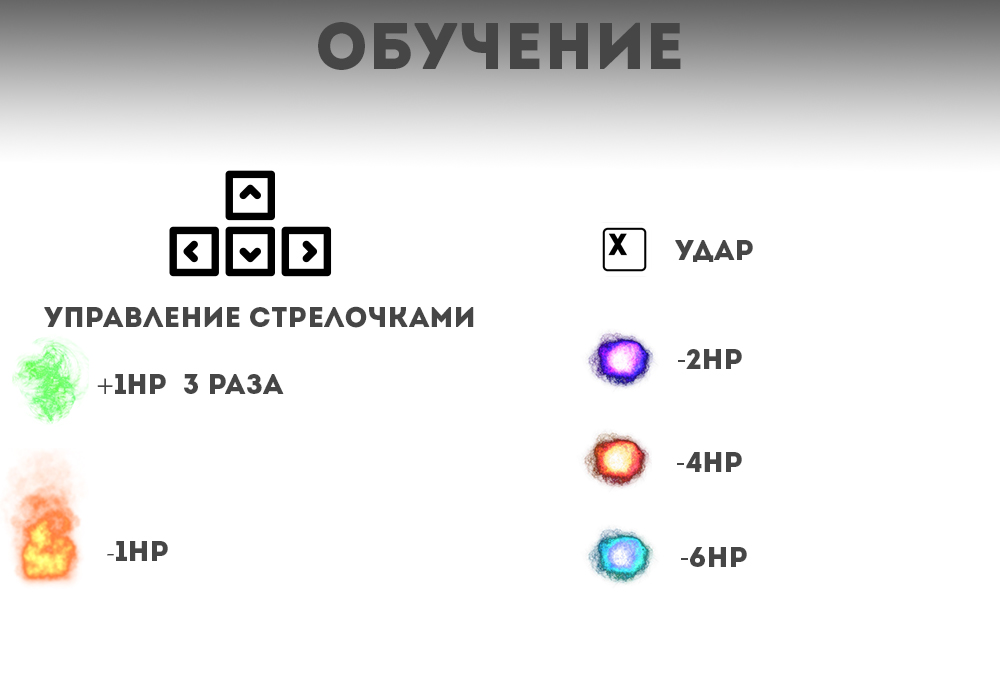
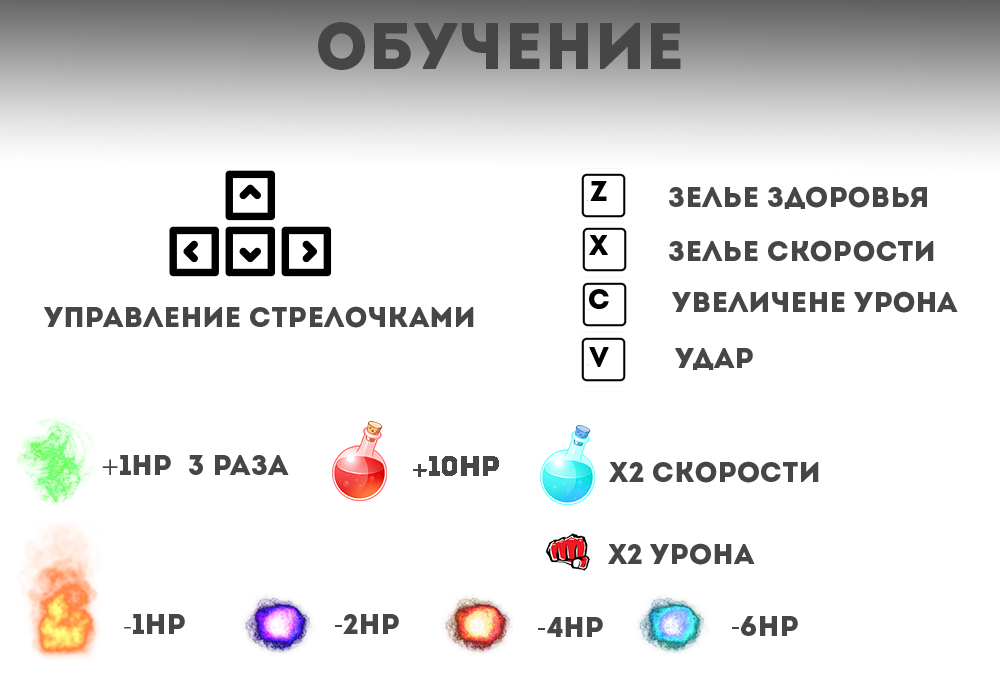
prerealise

diff --git a/game.py b/game.py
@@ -30,6 +30,7 @@ player_group = pygame.sprite.Group()
 particles = pygame.sprite.Group()
 buttons = pygame.sprite.Group()
 speed_up = []
+damage_up = []
 
 
 def load_image(name, color_key=None):
@@ -151,7 +152,12 @@ def game_screen(mode):
         f.seek(0)
         f = list(map(lambda x: x.strip(), f.readlines()))
         start_settings['level'] = f[0]
-        start_settings['player_stats'] = [int(f[1]), int(f[2]), int(f[3])]
+        start_settings['player_stats'] = [int(f[1]),
+                                          int(f[2]),
+                                          int(f[3]),
+                                          int(f[4]),
+                                          int(f[5]),
+                                          int(f[6])]
         player, level_x, level_y = generate_level(load_level(start_settings['level']))
         camera = Camera((level_x, level_y))
         save.close()
@@ -159,7 +165,12 @@ def game_screen(mode):
         f = open('data/save_load.txt')
         f = list(map(lambda x: x.strip(), f.readlines()))
         start_settings['level'] = f[0]
-        start_settings['player_stats'] = [int(f[1]), int(f[2]), int(f[3])]
+        start_settings['player_stats'] = [int(f[1]),
+                                          int(f[2]),
+                                          int(f[3]),
+                                          int(f[4]),
+                                          int(f[5]),
+                                          int(f[6])]
         player, level_x, level_y = generate_level(load_level(start_settings['level']))
         camera = Camera((level_x, level_y))
 
@@ -181,7 +192,7 @@ def game_screen(mode):
                                                       enemy_group):
                         enemy = pygame.sprite.spritecollideany(player,
                                                                enemy_group)
-                        enemy.hp -= 4
+                        enemy.hp -= player.damage
                         for _ in range(3):
                             Particle((enemy.rect[0] + 50,
                                       enemy.rect[1] + 50),
@@ -198,7 +209,7 @@ def game_screen(mode):
                 elif event.key == 99:
                     if player.damage_increasing:
                         player.damage_increasing -= 1
-                        speed_up.append(DoubleSpeed())
+                        damage_up.append(DoubleDamage())
         if player.hp > 0:
             if pygame.key.get_pressed()[pygame.K_LEFT]:
                 turn = True
@@ -471,8 +482,20 @@ class DoubleSpeed:
         player.speed *= 2
 
     def update(self):
-        if time.time() - self.start_time > 10:
+        if time.time() - self.start_time > 8:
             player.speed //= 2
+            return False
+        return True
+
+
+class DoubleDamage:
+    def __init__(self):
+        self.start_time = time.time()
+        player.damage *= 2
+
+    def update(self):
+        if time.time() - self.start_time > 8:
+            player.damage //= 2
             return False
         return True
 
@@ -811,8 +834,8 @@ class Wizard(pygame.sprite.Sprite):
         self.frequency = frequency
         self.update_counter = 0
         self.f = True
-        self.hp = power * 20
-        self.score = power * 1000 if self.power < 3 else 5000
+        self.hp = power * 20 if power < 3 else 50 * power
+        self.score = power * 1000 if self.power < 3 else 5600
 
     def update(self):
         self.update_counter += 1
@@ -1010,12 +1033,13 @@ class Player(pygame.sprite.Sprite):
         self.hp = start_settings['player_stats'][1]
         Hud(10, 10, 'hp')
         self.score = start_settings['player_stats'][2]
-        self.heal_potion = 0
+        self.heal_potion = start_settings['player_stats'][3]
         Hud(10, HEIGHT - 60, 'hp_potion')
         self.speed = 300
-        self.speed_potion = 0
+        self.speed_potion = start_settings['player_stats'][4]
         Hud(WIDTH // 6, HEIGHT - 60, 'speed')
-        self.damage_increasing = 0
+        self.damage = 4
+        self.damage_increasing = start_settings['player_stats'][5]
         Hud(WIDTH // 6 * 2, HEIGHT - 60, 'damage')
         self.dead_start = True
         self.mask = pygame.mask.from_surface(self.image)
